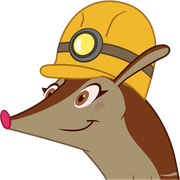
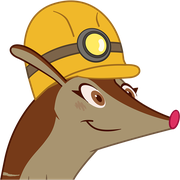
Correções do Iuri: equipe, empresas, patrocínio e valores
- Ícone da Malu virado para a direita; "aos cinemas" no plural
- Logo Malu Tatu recortado de novo, sem o contorno preto
- Fotos da direção (Iuri e Carol, só "Direção") e perfis com logo
  de Caolha, Dogzilla e Olhar Filmes
- Textos de Fadinha, Dona Marlene e Mataco atualizados
- Valores do Pix: 50, 100, 200, 500 e 1.000
- Nova seção de patrocínio para empresas com contato por e-mail
- Prévia do WhatsApp regenerada

diff --git a/index.html b/index.html
@@ -68,10 +68,10 @@
       <div class="hero__inner">
       <img class="hero__logo" src="assets/img/logo-malutatu.webp" alt="Malu Tatu" width="1200" height="213">
       <p class="hero__kicker">Um longa-metragem de animação feito em Goiás</p>
-      <h1 class="hero__title">A Malu encontrou o rio.<br>Agora ela precisa chegar ao cinema.</h1>
+      <h1 class="hero__title">A Malu encontrou o rio.<br>Agora ela precisa chegar aos cinemas.</h1>
       <p class="hero__lead">Depois de muitos anos de trabalho, o filme está quase pronto para as telonas. Falta o último túnel: a distribuição. <strong>Cave com a gente</strong> e ganhe seu nome nos créditos finais.</p>
       <div class="hero__ctas">
-        <a href="#apoiar" class="btn btn--yellow btn--big">Quero levar a Malu ao cinema</a>
+        <a href="#apoiar" class="btn btn--yellow btn--big">Quero levar a Malu aos cinemas</a>
         <a href="#teaser" class="btn btn--ghost">
           <svg aria-hidden="true" viewBox="0 0 24 24" width="18" height="18"><path fill="currentColor" d="M8 5v14l11-7z"/></svg>
           Ver o teaser
@@ -280,23 +280,44 @@
 
       <div class="people">
         <div class="person reveal">
+          <img class="person__photo" src="assets/img/foto-iuri.webp" alt="Iuri Moreno" loading="lazy" width="300" height="300">
           <h3>Iuri Moreno</h3>
-          <p class="person__role">Direção, roteiro e produção executiva</p>
+          <p class="person__role">Direção</p>
           <p>Sócio da Caolha Filmes, de Goiânia. Venceu o troféu Grande Otelo com <em>A Menina Atrás do Espelho</em> e, com <em>O Malabarista</em> e <em>Geração Alpha</em>, passou por mais de 400 festivais, como Havana, Chicago Children's e Huelva.</p>
         </div>
         <div class="person reveal">
+          <img class="person__photo" src="assets/img/foto-carol.webp" alt="Carol Sakura" loading="lazy" width="264" height="264">
           <h3>Carol Sakura</h3>
-          <p class="person__role">Direção e roteiro</p>
+          <p class="person__role">Direção</p>
           <p>Doutora em Letras pela UFPR, roteirista e diretora de <em>Apneia</em>, premiado em mais de 20 festivais, incluindo Melhor Curta no Festival de Gramado.</p>
         </div>
         <div class="person reveal">
+          <img class="person__photo person__photo--char" src="assets/img/malu-pe.webp" alt="" loading="lazy" width="401" height="640">
           <h3>Tainá Müller</h3>
           <p class="person__role">Voz da Malu</p>
           <p>Atriz conhecida do cinema e da TV brasileira, dá voz à protagonista. Ao lado dela, Mckeidy Lisita é o Bola.</p>
         </div>
       </div>
 
-      <p class="partners">Animação do estúdio <strong>Dogzilla</strong> (da série <em>O Menino Maluquinho</em>, da Netflix, indicada ao Emmy) · Distribuição <strong>Olhar Filmes</strong> · O projeto participou dos mercados Rio2C, Ventana Sur, NordesteLab e SAPI.</p>
+      <div class="companies">
+        <article class="company reveal">
+          <a class="company__logo" href="https://www.caolha.com/" target="_blank" rel="noopener"><img src="assets/img/caolha-logo.png" alt="Caolha Filmes" loading="lazy" width="600" height="105"></a>
+          <p class="company__role">Produtora · Goiânia</p>
+          <p>Produz longas, curtas e séries de animação e live action com olhar para questões sociais, ambientais e educativas. Liderada por Iuri Moreno e Yorrana Maia desde 2016, soma mais de 60 prêmios, incluindo o Grande Otelo, e mais de 500 festivais.</p>
+        </article>
+        <article class="company reveal">
+          <a class="company__logo" href="https://dogzilla.com.br/" target="_blank" rel="noopener"><img src="assets/img/dogzilla-logo.png" alt="Dogzilla Animation Studio" loading="lazy" width="302" height="301"></a>
+          <p class="company__role">Estúdio de animação · Curitiba</p>
+          <p>Há mais de 15 anos dá vida a personagens em animação 2D para crianças e jovens. Fez a direção de arte da série <em>O Menino Maluquinho</em>, da Netflix, indicada ao Emmy, e trabalha com Netflix, Apple, Disney e Sesame Studios.</p>
+        </article>
+        <article class="company reveal">
+          <a class="company__logo" href="https://www.olharfilmes.com.br/" target="_blank" rel="noopener"><img src="assets/img/olhar-logo.png" alt="Olhar Filmes" loading="lazy" width="406" height="138"></a>
+          <p class="company__role">Distribuidora</p>
+          <p>Leva filmes brasileiros aos cinemas e ao streaming. Seus títulos passaram por Cannes, Sundance, Berlim e Gramado, somando mais de 700 participações e 150 prêmios. Também mantém a plataforma Olharplay.</p>
+        </article>
+      </div>
+
+      <p class="partners">O projeto participou dos mercados Rio2C, Ventana Sur, NordesteLab e SAPI.</p>
     </div>
   </section>
 
@@ -321,15 +342,15 @@
       </figure>
       <figure class="char">
         <img src="assets/img/fadinha.webp" alt="Fadinha" loading="lazy" width="491" height="640">
-        <figcaption><strong>Fadinha</strong>Tagarela, fã número 1 da Malu.</figcaption>
+        <figcaption><strong>Fadinha</strong>Estudante de engenharia, tagarela e fã número 1 da Malu.</figcaption>
       </figure>
       <figure class="char">
         <img src="assets/img/marlene.webp" alt="Dona Marlene" loading="lazy" width="552" height="640">
-        <figcaption><strong>Dona Marlene</strong>90 anos e uma surdez bem seletiva.</figcaption>
+        <figcaption><strong>Dona Marlene</strong>A anciã e conselheira da Toca. Tem 90 anos e uma surdez bem seletiva.</figcaption>
       </figure>
       <figure class="char">
         <img src="assets/img/mataco.webp" alt="Mataco" loading="lazy" width="438" height="640">
-        <figcaption><strong>Mataco</strong>Mimado, mas sonha em ser fotógrafo.</figcaption>
+        <figcaption><strong>Mataco</strong>Mimado, ganhou cargo de chefia na construção só por ser filho do chefe.</figcaption>
       </figure>
       <figure class="char">
         <img src="assets/img/rocco.webp" alt="Chefe Rocco" loading="lazy" width="622" height="640">
@@ -363,11 +384,11 @@
       <div class="pix-card">
         <h3 class="pix-card__title">1. Escolha um valor</h3>
         <div class="amounts" role="radiogroup" aria-label="Valor do apoio">
-          <button type="button" class="amount" role="radio" aria-checked="false" data-amount="30">R$ 30</button>
           <button type="button" class="amount" role="radio" aria-checked="true" data-amount="50">R$ 50</button>
           <button type="button" class="amount" role="radio" aria-checked="false" data-amount="100">R$ 100</button>
           <button type="button" class="amount" role="radio" aria-checked="false" data-amount="200">R$ 200</button>
           <button type="button" class="amount" role="radio" aria-checked="false" data-amount="500">R$ 500</button>
+          <button type="button" class="amount" role="radio" aria-checked="false" data-amount="1000">R$ 1.000</button>
           <button type="button" class="amount" role="radio" aria-checked="false" data-amount="outro">Outro valor</button>
         </div>
         <label class="amount-other" data-other hidden>
@@ -460,6 +481,59 @@
     </div>
   </section>
 
+  <!-- ============ PATROCÍNIO PARA EMPRESAS ============ -->
+  <section class="sponsors" id="patrocinio" aria-labelledby="patrocinio-titulo">
+    <div class="wrap">
+      <p class="eyebrow">Para empresas</p>
+      <h2 id="patrocinio-titulo">Sua marca junto com a Malu</h2>
+      <p class="section-lead">Associe sua empresa a uma animação brasileira sobre o Cerrado, feita para toda a família. Temos cotas de patrocínio com contrapartidas de visibilidade.</p>
+
+      <div class="tiers">
+        <article class="tier reveal">
+          <h3>Apoio Cultural</h3>
+          <ul>
+            <li>Logotipo nos créditos finais do filme</li>
+            <li>Menção nos agradecimentos oficiais</li>
+            <li>Menção nos releases para a imprensa</li>
+            <li>Logotipo nos materiais de divulgação digitais</li>
+            <li>Cota de ingressos cortesia para clientes e funcionários</li>
+          </ul>
+        </article>
+        <article class="tier tier--mid reveal">
+          <h3>Empresa Parceira</h3>
+          <p class="tier__plus">Tudo do Apoio Cultural, mais:</p>
+          <ul>
+            <li>Logotipo também nos créditos iniciais</li>
+            <li>Marca no press kit para imprensa e influenciadores</li>
+            <li>Marca em folders e backdrops dos eventos de lançamento</li>
+            <li>Menção especial nas redes sociais do filme</li>
+            <li>Cota maior de ingressos cortesia</li>
+          </ul>
+        </article>
+        <article class="tier tier--top reveal">
+          <h3>Patrocinador</h3>
+          <p class="tier__plus">Tudo da Empresa Parceira, mais:</p>
+          <ul>
+            <li>Logotipo no cartaz e no trailer do filme</li>
+            <li>Campanha conjunta com a equipe de marketing do filme</li>
+            <li>Estande da marca nas sessões especiais e no lançamento</li>
+            <li>Acesso à pré-estreia com elenco e equipe</li>
+            <li>A maior cota de ingressos cortesia</li>
+          </ul>
+        </article>
+      </div>
+
+      <div class="sponsor-contact reveal">
+        <div>
+          <p class="sponsor-contact__title">Quer patrocinar o Malu Tatu?</p>
+          <p>Escreva para a gente. Enviamos a apresentação completa, com valores e contrapartidas de cada cota.</p>
+          <p class="sponsor-contact__email">iurimoreno@caolha.com</p>
+        </div>
+        <a class="btn btn--brown btn--big" href="mailto:iurimoreno@caolha.com?subject=Patroc%C3%ADnio%20Malu%20Tatu">Falar sobre patrocínio</a>
+      </div>
+    </div>
+  </section>
+
   <!-- ============ FAQ ============ -->
   <section class="faq" aria-labelledby="faq-titulo">
     <div class="wrap wrap--narrow">
@@ -497,7 +571,7 @@
     <div class="wrap final__content">
       <img class="final__malu" src="assets/img/malu-celebra.webp" alt="Malu comemorando" loading="lazy" width="357" height="640">
       <div>
-        <h2>Vamos juntos levar a Malu ao cinema?</h2>
+        <h2>Vamos juntos levar a Malu aos cinemas?</h2>
         <a href="#apoiar" class="btn btn--yellow btn--big">Apoiar com Pix</a>
       </div>
     </div>
@@ -518,6 +592,7 @@
       </a>
       <a href="https://www.caolha.com/" target="_blank" rel="noopener" class="footer__link">Conheça outros filmes da Caolha →</a>
       <a href="https://www.instagram.com/caolhafilmes/" target="_blank" rel="noopener" class="footer__link">@caolhafilmes</a>
+      <a href="#patrocinio" class="footer__link">Patrocínio para empresas</a>
     </div>
   </div>
   <p class="footer__small wrap">Imagens © Caolha Filmes. Todos os direitos reservados.</p>

diff --git a/assets/css/style.css b/assets/css/style.css
@@ -312,6 +312,18 @@ section { position: relative; }
 .person h3 { margin-bottom: .1em; }
 .person__role { font-weight: 800; color: var(--barro); font-size: .92rem; margin-bottom: .6em; }
 .person p:last-child { color: var(--texto-suave); font-size: .97rem; }
+.person__photo { width: 120px; height: 120px; border-radius: 50%; object-fit: cover; margin-bottom: 14px; border: 4px solid #fff; box-shadow: 0 6px 16px rgba(34,20,13,.15); }
+.person__photo--char { object-fit: contain; object-position: center top; background: var(--capacete); padding: 8px 0 0; }
+.companies { display: grid; grid-template-columns: repeat(3, 1fr); gap: 18px; margin-top: 44px; }
+.company { background: var(--terra-800); color: var(--areia-200); border-radius: var(--radius); padding: 26px 24px; font-size: .95rem; line-height: 1.5; }
+.company__logo { display: flex; align-items: center; height: 74px; margin-bottom: 14px; }
+.company__logo img { max-height: 74px; max-width: 220px; width: auto; transition: opacity .2s; }
+.company__logo img[src*="caolha"] { width: 220px; }
+.company__logo img[src*="olhar"] { max-height: 52px; }
+.company__logo:hover img { opacity: .85; }
+.company__role { font-weight: 900; color: var(--capacete); font-size: .8rem; text-transform: uppercase; letter-spacing: .1em; margin-bottom: .5em; }
+.company p:last-child { margin: 0; }
+@media (max-width: 900px) { .companies { grid-template-columns: 1fr; } }
 .partners { margin-top: 34px; padding-top: 24px; border-top: 2px dashed rgba(43,26,18,.2); color: var(--texto-suave); font-size: .97rem; }
 @media (max-width: 900px) { .badges { grid-template-columns: repeat(2, 1fr); } .people { grid-template-columns: 1fr; } }
 @media (max-width: 420px) { .badges { grid-template-columns: 1fr; } }
@@ -412,6 +424,30 @@ section { position: relative; }
 .share__buttons { display: grid; gap: 10px; margin-top: 16px; }
 .share__buttons .btn--ghost { --fg: var(--terra-800); border-color: rgba(43,26,18,.35); }
 @media (max-width: 860px) { .share__grid { grid-template-columns: 1fr; gap: 26px; } .share__fadinha { width: 120px; } }
+
+/* ---------- Patrocínio ---------- */
+.sponsors { padding: 90px 0; background: var(--areia-100); }
+.tiers { display: grid; grid-template-columns: repeat(3, 1fr); gap: 20px; margin-top: 30px; }
+.tier { background: #fff; border-radius: var(--radius); padding: 26px 24px; box-shadow: 0 6px 18px rgba(34,20,13,.08); border-top: 6px solid var(--areia-300); }
+.tier--mid { border-top-color: var(--barro); }
+.tier--top { border-top-color: var(--capacete); }
+.tier h3 { font-size: 1.4rem; }
+.tier__plus { font-weight: 800; color: var(--barro); font-size: .9rem; margin-bottom: .6em; }
+.tier ul { margin: 0; padding: 0; list-style: none; display: grid; gap: 8px; }
+.tier li { position: relative; padding-left: 24px; font-size: .95rem; color: var(--texto-suave); line-height: 1.45; }
+.tier li::before { content: "✓"; position: absolute; left: 0; top: 0; font-weight: 900; color: var(--cerrado); }
+.sponsor-contact {
+  display: flex; align-items: center; justify-content: space-between; gap: 24px; margin-top: 30px; padding: 28px 30px;
+  border-radius: var(--radius); background: var(--areia-200); border: 2px dashed rgba(43,26,18,.25);
+}
+.sponsor-contact__title { font-family: var(--font-title); font-size: 1.6rem; line-height: 1.15; margin-bottom: .4em !important; color: var(--texto) !important; }
+.sponsor-contact p { margin-bottom: .3em; color: var(--texto-suave); }
+.sponsor-contact__email { font-weight: 900; color: var(--texto) !important; font-size: 1.1rem; word-break: break-all; }
+.sponsor-contact .btn { flex-shrink: 0; }
+@media (max-width: 900px) {
+  .tiers { grid-template-columns: 1fr; }
+  .sponsor-contact { flex-direction: column; align-items: flex-start; padding: 24px 20px; }
+}
 
 /* ---------- FAQ ---------- */
 .faq { padding: 90px 0; background: var(--areia-200); }

diff --git a/assets/js/main.js b/assets/js/main.js
@@ -116,7 +116,7 @@
       var v = parseMoney(otherInput.value);
       copyBrLabel.textContent = v ? 'Copiar Pix de ' + brlCents.format(v).replace(',00', '') : 'Copiar código Pix';
     } else {
-      copyBrLabel.textContent = 'Copiar Pix de R$ ' + selected;
+      copyBrLabel.textContent = 'Copiar Pix de ' + brl.format(selected);
     }
   }
   amountButtons.forEach(function (btn) {
